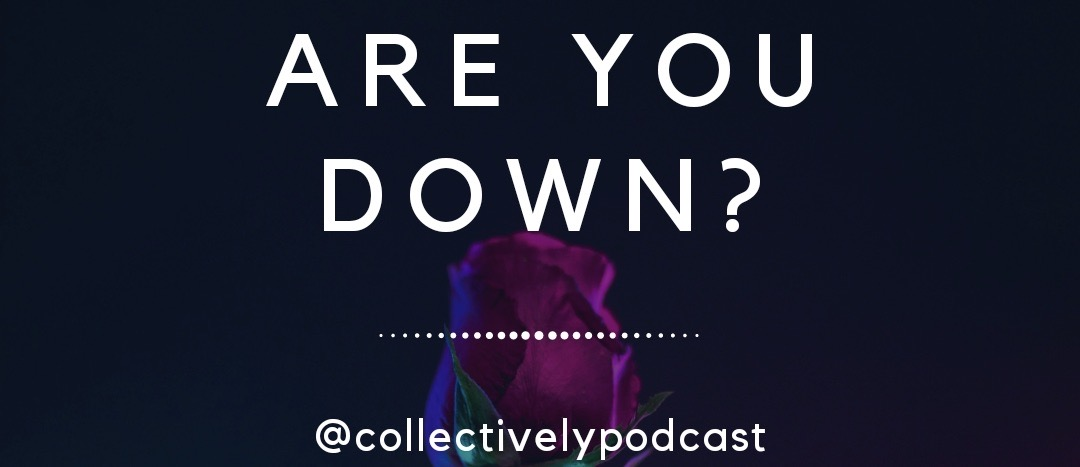
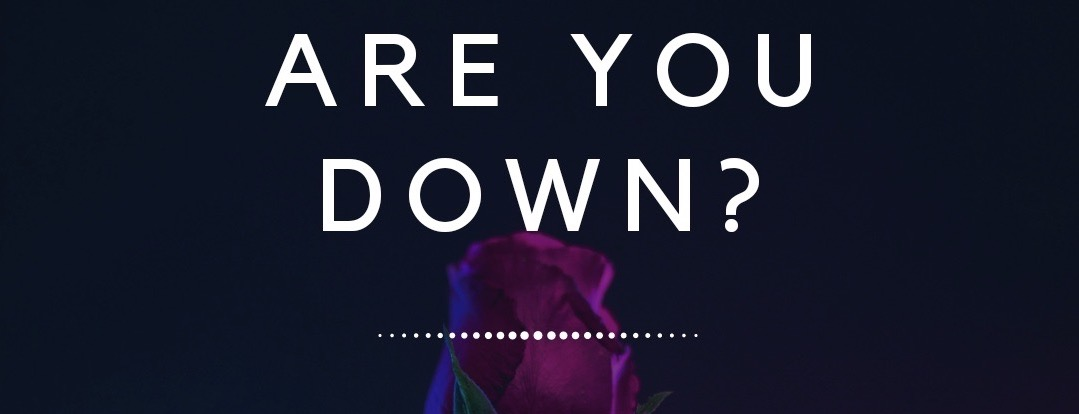
Change Jombe image to promo img

diff --git a/src/components/PodcastFeed/index.js b/src/components/PodcastFeed/index.js
@@ -3,9 +3,9 @@ import React, {useEffect, useState} from 'react';
 const PodcastFeed = () => {
     const [podcastRSS, setPodcastRSS] = useState([])
 
-    // useEffect( () => {
-    //     getPodcast()  
-    // },[] )
+    useEffect( () => {
+        getPodcast()  
+    },[] )
 
      const getPodcast = async () => {
         const myPodcast = await fetch('https://anchor.fm/s/92b5e90/podcast/rss')
@@ -33,7 +33,7 @@ const PodcastFeed = () => {
 
         return (
             <div style={sytles.podParent}>
-            <h4>Collectively Podcast</h4>
+            <h4 className='ml-5 mt-3'>Collectively Podcast</h4>
             <div style={sytles.podcast}>
             {podcastRSS.map((player, i) => (
                 <iframe 

diff --git a/src/components/YoutubeFeed/index.js b/src/components/YoutubeFeed/index.js
@@ -3,9 +3,9 @@ import React, {useEffect, useState} from 'react'
 const YouFeed = () => {
     const [youTubeRSS, setYouTubeRSS] = useState([])
 
-    // useEffect( () => {
-    //     getYouTube()  
-    // },[] )
+    useEffect( () => {
+        getYouTube()  
+    },[] )
 
     // cors-anywhere.herokuapp.com/
     const getYouTube = async () => {
@@ -47,7 +47,7 @@ const YouFeed = () => {
 
     return(
         <div style={sytles.uParent}>
-        <h4>Watch Now</h4>
+        <h4 className='ml-5 mt-3'>Watch Now</h4>
         <div style={sytles.youtube}>
         {/* youTube episodes */}
         {youTubeRSS.map((tube, i) => (

diff --git a/src/App.js b/src/App.js
@@ -12,6 +12,7 @@ function App() {
     <HashRouter basename='/AlexWebsite'>
         <Switch>
           <Route exact path="/" component={Episodes} />
+          <Route exact path="/AlexWebsite" component={Episodes} />
           <Route exact path="/About" component={About} />
           <Route exact path="/Blog" component={Blog} />
           <Route exact path="/Contact" component={Contact} />

diff --git a/src/components/Hero/index.js b/src/components/Hero/index.js
@@ -5,11 +5,7 @@ import './styles.css'
 
 const Hero = (props) => {
   return (
-      // <Jumbotron fluid>
-      //   <Container fluid>
-            <img className="img-fluid" alt="Collectively-image" src={promo} />
-      //   </Container>
-      // </Jumbotron>
+      <img className="img-fluid w-100 mt-5" alt="Collectively-image" src={promo} />
   );
 };
 
